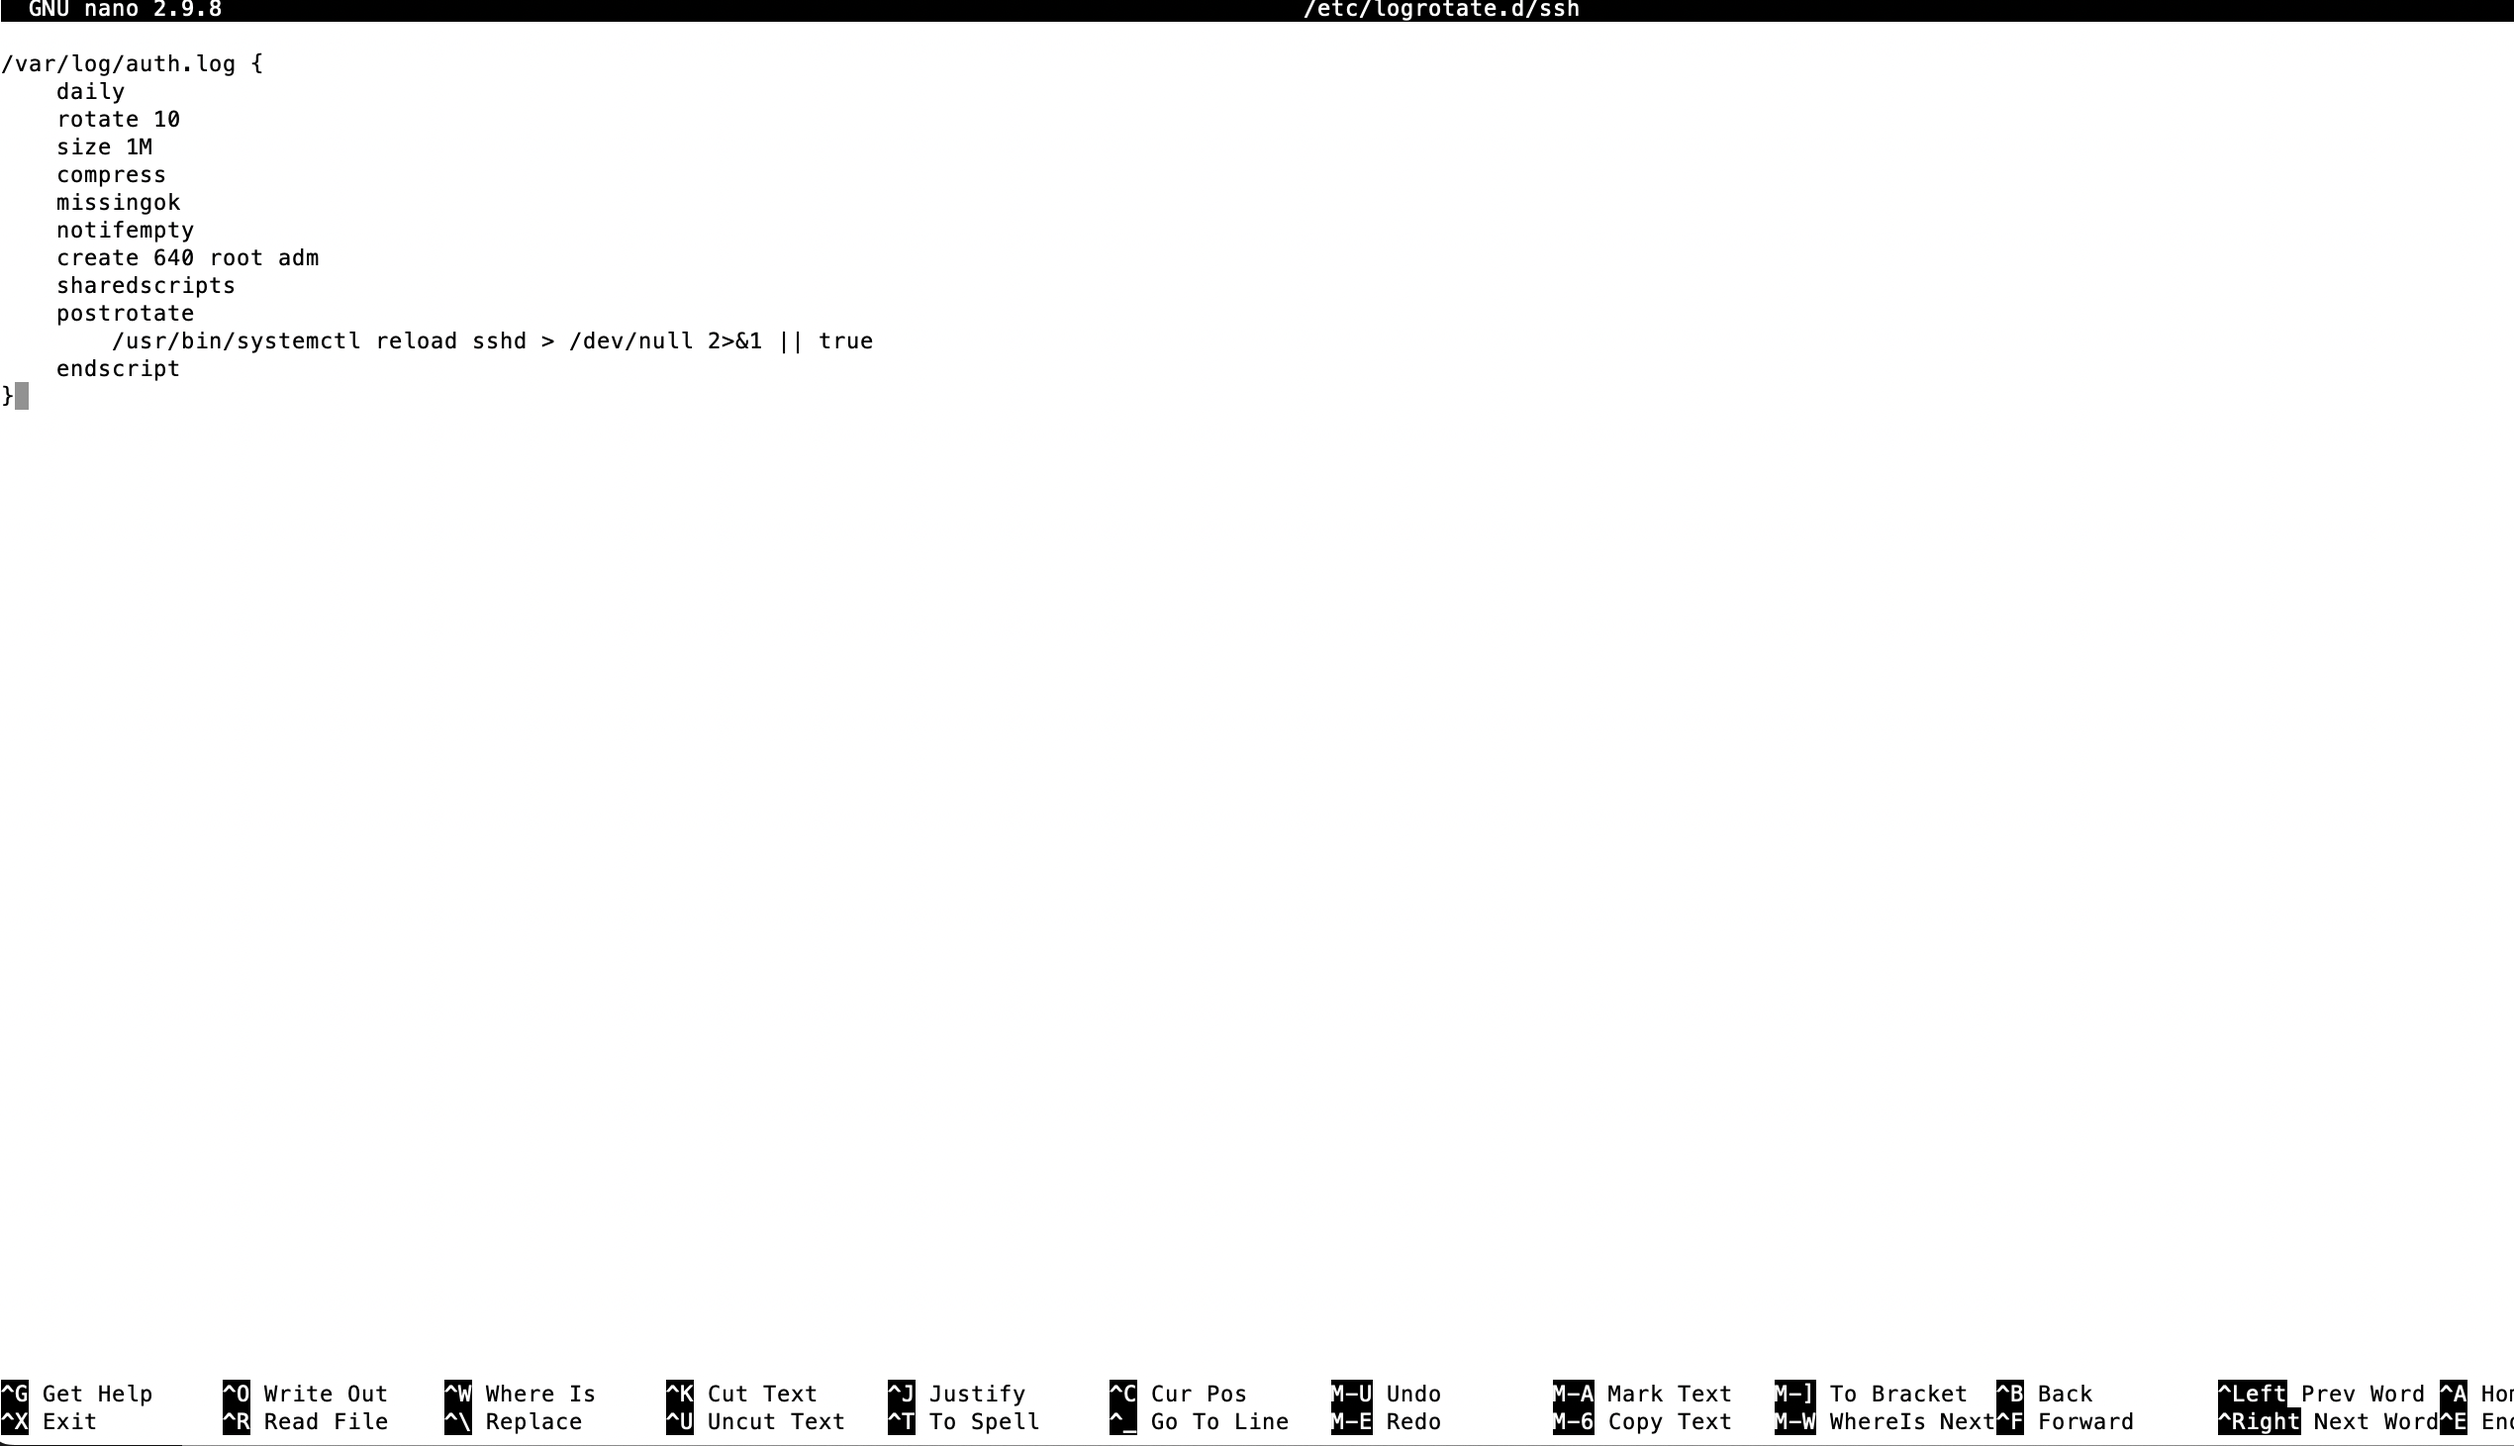
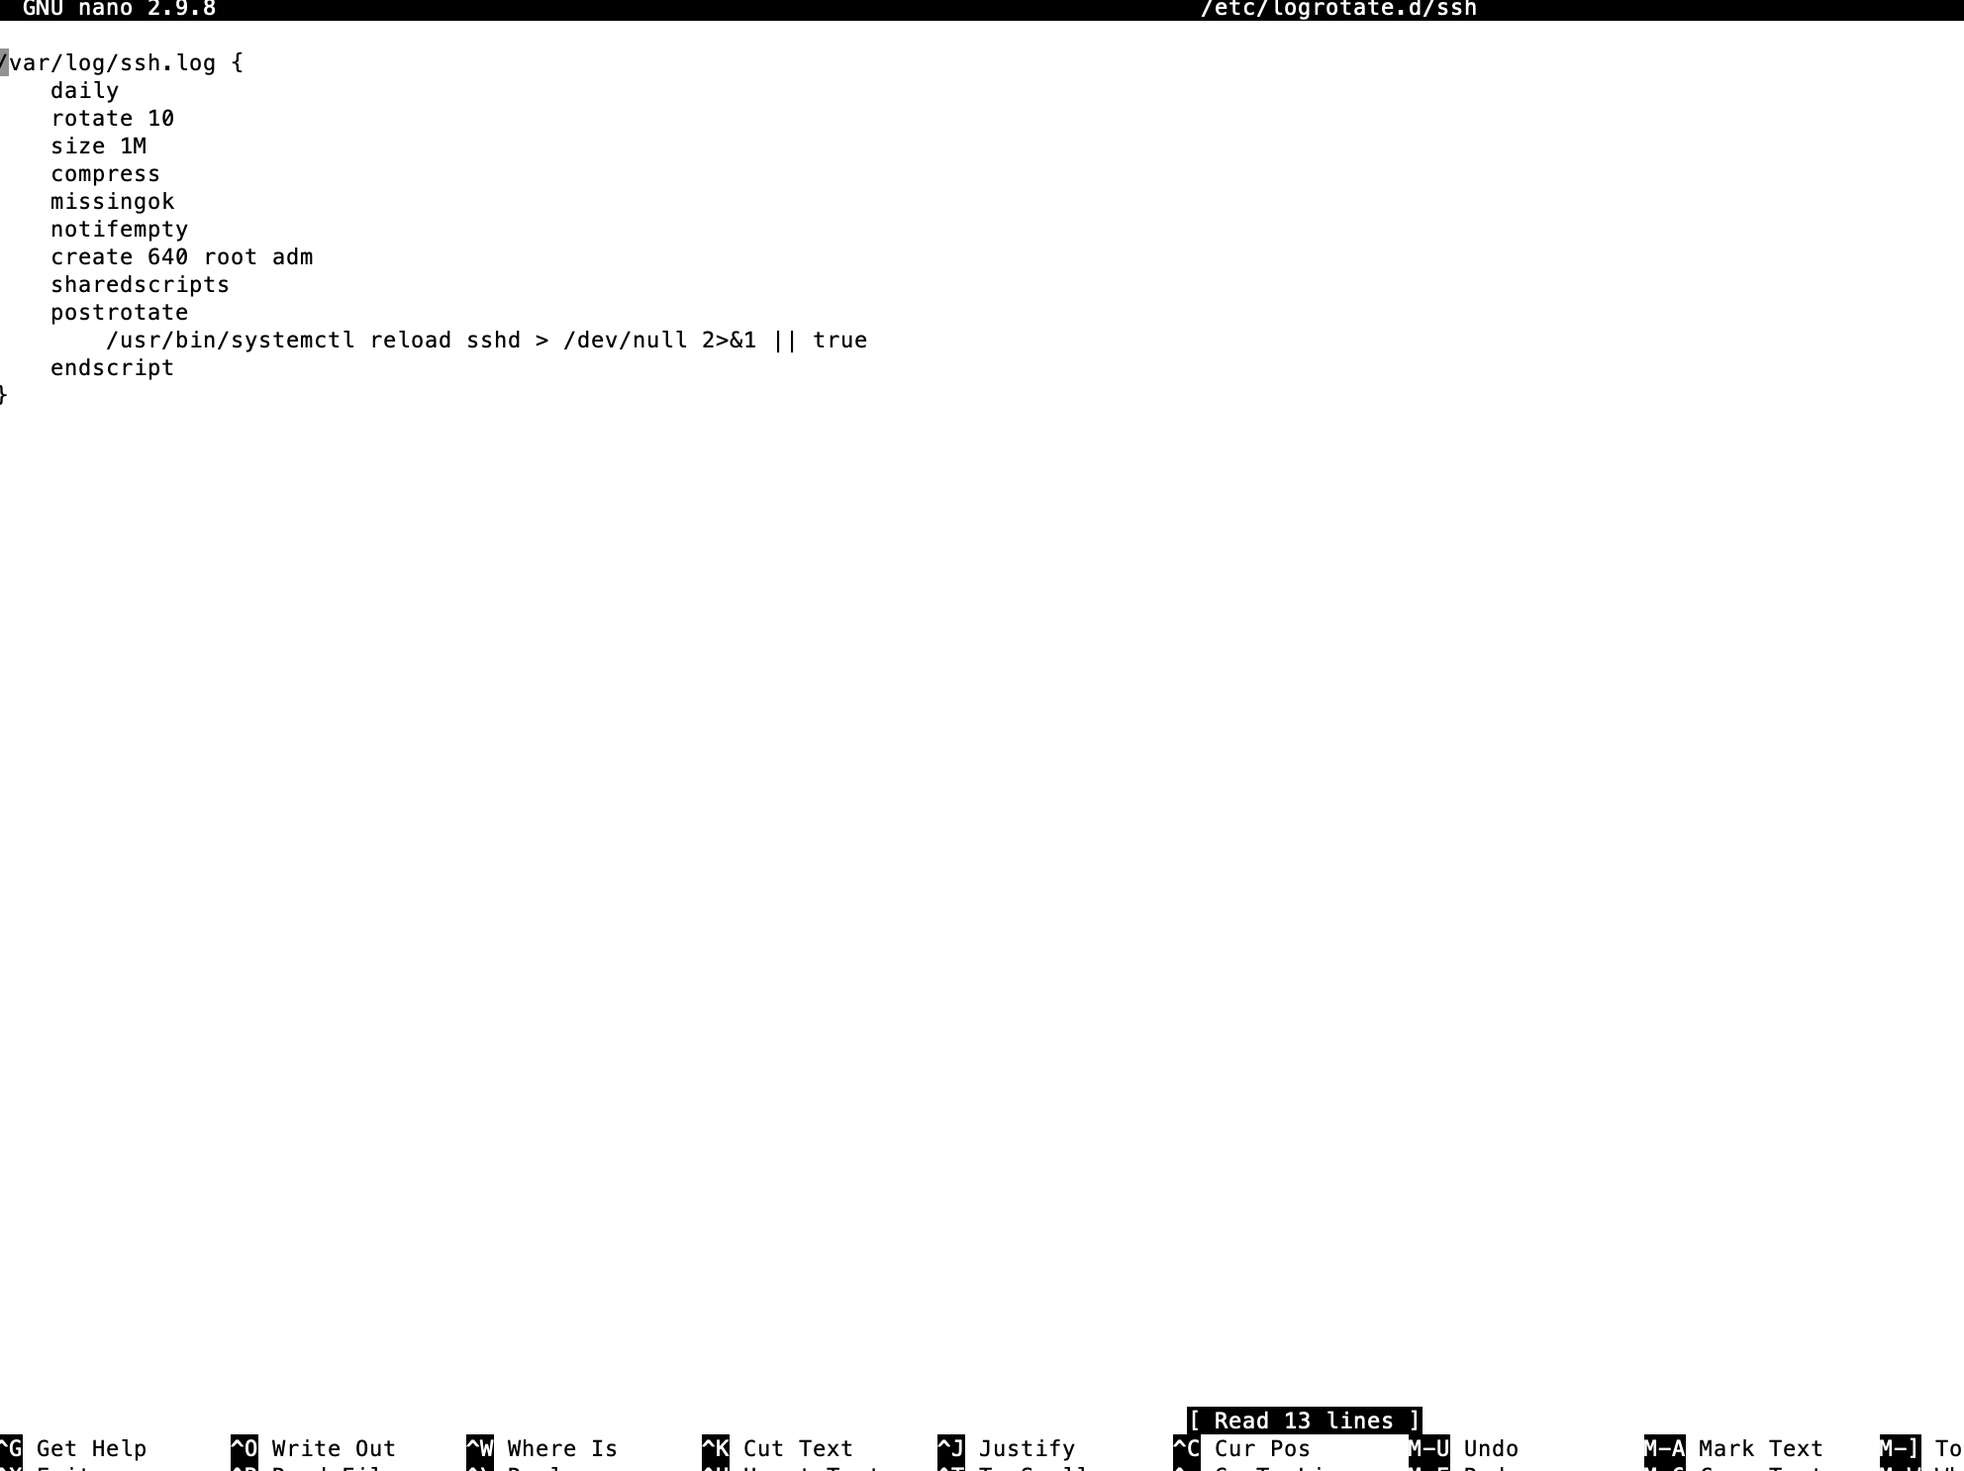
fix 2.5 logrotate

diff --git a/Homework_2_5/homework_2_5.md b/Homework_2_5/homework_2_5.md
@@ -36,7 +36,7 @@ if $programname == 'sshd' then /var/log/ssh.log
 }
 ```
 	**`Объяснение конфигурации logrotate`**:
-- /var/log/auth.log: Это файл, в который будут записываться события SSH. 
+- /var/log/ssh.log: Это файл, в который будут записываться события SSH. 
 - daily: Ротация логов будет происходить каждый день.
 - rotate 10: Хранить 10 старых файлов логов перед их удалением.
 - size 1M: Ротация будет происходить, если файл превысит 1 мегабайт.
